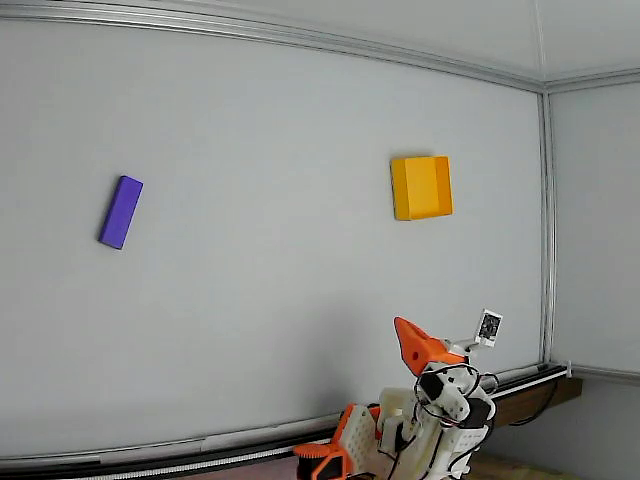
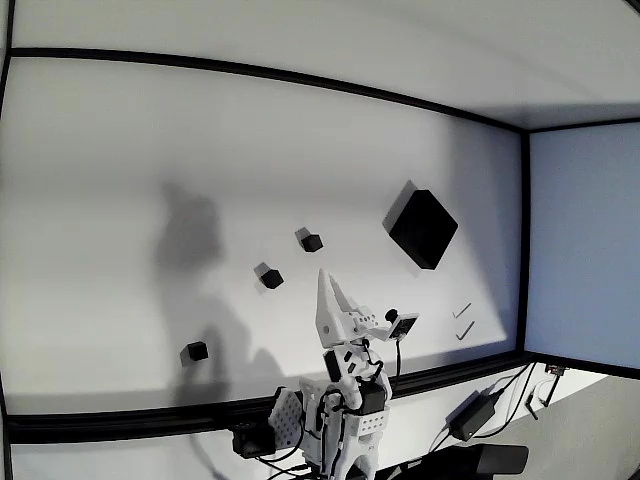
calibrate: give the real crop pan/zoom back, and fix the sim reference
dump_reference_views.py rendered the reset keyframe no matter what --rail or
--gripper asked for. A SAPIEN-mounted camera takes its picture from transforms
cached at the previous capture, so the first get_obs() after a set_qpos returns
the pre-set pose. Confirmed by qpos readback diverging while the PNG hash stayed
identical. update_render() twice does not fix it and px.step() perturbs the pose;
a discarded capture followed by a real one does. Every reference view dumped
before this was the reset pose.

Adds --gripper, defaulting to CLOSED. The wrist camera sees almost nothing but
the jaws, and only closed puts both of them in frame converging in a V, which is
the geometry the real arm capture shows. At the rest keyframe and fully open the
moving jaw leaves the frustum entirely and the view degrades to one featureless
wedge -- those two render identically for that reason. So the existing
arm_camera_mapping.json was fit against a reference with nothing in it.

calibrate_camera.py hardcoded a centred largest-square crop at zoom 1, even
though apply_mapping has always honoured crop_cx/crop_cy/crop_size/zoom at replay
time. The saved format could express an off-centre crop; the fitting UI could
not. Adds those four sliders plus [c] to re-centre against the current rot90, and
--out-size so a refit can record the checkpoint's render size (168 for
dino_patch) instead of the hardcoded 128, which the encoder was upsampling from.
[…]

diff --git a/rl/deploy/utils/calibrate_camera.py b/rl/deploy/utils/calibrate_camera.py
@@ -4,11 +4,11 @@ Drag sliders to rectify a raw photo (rotate -> undistort -> crop) until it match
 render of the same sim camera, then save the mapping the deploy loop replays every tick.
 
     # once, in rl/environments/maniskill (needs the simulator):
-    uv run python examples/dump_reference_views.py
+    uv run python examples/dump_reference_views.py --out ../../deploy/utils/reference_views
 
     # here, per camera (no simulator needed):
-    uv run python utils/calibrate_camera.py captures/real_overhead_camera.png \\
-        --reference reference_views/overhead_camera.png --camera overhead
+    uv run python utils/calibrate_camera.py utils/captures/real_overhead_camera.png \\
+        --reference utils/reference_views/overhead_camera.png --camera overhead
 
 Pure OpenCV + numpy on purpose. The previous version rendered the sim live, which meant the
 deploy tree had to install mani_skill and SAPIEN just to calibrate a camera. The sim side is
@@ -16,9 +16,16 @@ now a PNG, so this runs anywhere -- including on the robot host.
 
 The trade: the sim's FOV is no longer a slider, because the reference render is fixed. If the
 scale cannot be made to match, the sim FOV itself is wrong -- re-dump the reference with
-`--fov` and re-fit. That is rare; the FOVs in config.py are already calibrated.
+`--overhead-fov` / `--wrist-fov` and re-fit. That is rare; the FOVs in config.py are already
+calibrated. The sim CAMERA POSE was never a slider here on purpose: the URDF pose is ground
+truth, and the old pose-offset fit is superseded by the FOV parameterization.
 
-Keys: [s] save, [q] quit.
+The crop is fully adjustable, matching what apply_mapping already replays: pan it with
+crop cx/cy, resize it with crop size, and pull the undistorted view in or out with zoom
+(< 1 shrinks the output focal so a strong barrel lens fits the canvas). Earlier versions
+hardcoded a centred largest-square crop at zoom 1, which the mapping format never required.
+
+Keys: [s] save, [c] re-centre the crop for the current rot90, [q] quit.
 """
 from __future__ import annotations
 
@@ -42,20 +49,32 @@ def squint_tile(img):
     return cv2.resize(small, (VIEW, VIEW), interpolation=cv2.INTER_NEAREST)
 
 
-def build_mapping(camera, raw_shape, rot90, angle, k1, k2, focal, out_size=SIM_SENSOR_SIZE):
-    """The mapping dict, exactly as apply_mapping will replay it at deploy time."""
-    h, w = (raw_shape[1], raw_shape[0]) if rot90 % 2 else (raw_shape[0], raw_shape[1])
-    crop = min(h, w)
+def rotated_dims(raw_shape, rot90):
+    """(h, w) after the rot90 step. The crop fields are expressed in these coordinates."""
+    return (raw_shape[1], raw_shape[0]) if rot90 % 2 else (raw_shape[0], raw_shape[1])
+
+
+def build_mapping(camera, raw_shape, rot90, angle, k1, k2, focal, *,
+                  crop_cx=None, crop_cy=None, crop_size=None, zoom=1.0,
+                  out_size=SIM_SENSOR_SIZE):
+    """The mapping dict, exactly as apply_mapping will replay it at deploy time.
+
+    The crop defaults to the largest centred square, which is what this tool used to hardcode.
+    """
+    h, w = rotated_dims(raw_shape, rot90)
+    crop = min(int(crop_size) if crop_size else min(h, w), h, w)
     return dict(
         camera=camera,
         source_image_size=[int(raw_shape[1]), int(raw_shape[0])],
         # Angular span of the crop at this focal length. Recorded for reference: it is the real
         # camera's span, and it can legitimately differ from the sim FOV, since the fit is what
-        # reconciles the two.
-        fov_deg=round(float(np.rad2deg(2 * np.arctan(crop / (2 * focal)))), 2),
+        # reconciles the two. Tracks zoom, which scales the undistorted output focal.
+        fov_deg=round(float(np.rad2deg(2 * np.arctan(crop / (2 * focal * zoom)))), 2),
         rot90=int(rot90), angle_deg=float(angle), k1=float(k1), k2=float(k2),
-        focal_px=int(focal), zoom=1.0,
-        crop_cx=int(w // 2), crop_cy=int(h // 2), crop_size=int(crop),
+        focal_px=int(focal), zoom=round(float(zoom), 3),
+        crop_cx=int(crop_cx if crop_cx is not None else w // 2),
+        crop_cy=int(crop_cy if crop_cy is not None else h // 2),
+        crop_size=int(crop),
         out_size=int(out_size),
     )
 
@@ -70,6 +89,11 @@ def main():
     parser.add_argument("--camera", choices=["overhead", "arm"], default="overhead",
                         help="which mapping to write: <camera>_camera_mapping.json")
     parser.add_argument("--out-dir", default=str(pathlib.Path(__file__).parent / "camera_mappings"))
+    parser.add_argument("--out-size", type=int, default=None,
+                        help=f"rectified output resolution (default: the existing mapping's, "
+                             f"else {SIM_SENSOR_SIZE}). Match the checkpoint's render size: "
+                             f"{SIM_SENSOR_SIZE} for squint, 168 for dino_patch. Too small and "
+                             "the encoder upsamples a blurrier view than it trained on.")
     args = parser.parse_args()
 
     raw = cv2.imread(args.image)
@@ -87,6 +111,13 @@ def main():
     if seed:
         print(f"[calibrate] starting from {existing}")
 
+    out_size = args.out_size or int(seed.get("out_size", SIM_SENSOR_SIZE))
+
+    # Crop sliders span the largest raw dimension, since rot90 can swap h and w while running;
+    # build_mapping and apply_mapping both clamp the crop back inside the frame.
+    max_dim = int(max(raw.shape[0], raw.shape[1]))
+    seed_h, seed_w = rotated_dims(raw.shape, int(seed.get("rot90", 1)))
+
     cv2.namedWindow(WINDOW)
     tb = cv2.createTrackbar
     tb("rot90", WINDOW, int(seed.get("rot90", 1)), 3, lambda v: None)
@@ -94,10 +125,16 @@ def main():
     tb("k1 x1000 +-600", WINDOW, int(seed.get("k1", -0.33) * 1000) + 600, 1200, lambda v: None)
     tb("k2 x1000 +-300", WINDOW, int(seed.get("k2", 0.275) * 1000) + 300, 600, lambda v: None)
     tb("focal px", WINDOW, int(seed.get("focal_px", 512)), 1200, lambda v: None)
+    tb("zoom x100", WINDOW, int(round(float(seed.get("zoom", 1.0)) * 100)), 200, lambda v: None)
+    tb("crop cx", WINDOW, int(seed.get("crop_cx", seed_w // 2)), max_dim, lambda v: None)
+    tb("crop cy", WINDOW, int(seed.get("crop_cy", seed_h // 2)), max_dim, lambda v: None)
+    tb("crop size", WINDOW, int(seed.get("crop_size", min(seed_h, seed_w))), max_dim,
+       lambda v: None)
     tb("blend %", WINDOW, 50, 100, lambda v: None)
 
     print("[calibrate] straighten the rig's edges with k1/k2 and angle first, then match scale "
-          "with focal; read the blend last. [s] save, [q] quit")
+          "with focal and zoom, then frame it with crop cx/cy/size; read the blend last. "
+          f"writing {out_size}px output. [s] save, [c] re-centre crop, [q] quit")
 
     while True:
         g = lambda n: cv2.getTrackbarPos(n, WINDOW)  # noqa: E731
@@ -105,8 +142,12 @@ def main():
         k1 = (g("k1 x1000 +-600") - 600) / 1000.0
         k2 = (g("k2 x1000 +-300") - 300) / 1000.0
         focal = max(g("focal px"), 100)
+        zoom = max(g("zoom x100"), 20) / 100.0
+        crop_size = max(g("crop size"), 32)
 
-        mapping = build_mapping(args.camera, raw.shape, rot90, angle, k1, k2, focal)
+        mapping = build_mapping(args.camera, raw.shape, rot90, angle, k1, k2, focal,
+                                crop_cx=g("crop cx"), crop_cy=g("crop cy"),
+                                crop_size=crop_size, zoom=zoom, out_size=out_size)
         # Rectify through the SAME function deploy uses, so what you align is what ships.
         rect = apply_mapping(raw, mapping)
         rect_view = cv2.resize(rect, (VIEW, VIEW), interpolation=cv2.INTER_NEAREST)
@@ -120,11 +161,13 @@ def main():
             f"rot90    {rot90}   angle {angle:+d} deg",
             f"k1       {k1:+.3f}",
             f"k2       {k2:+.3f}",
-            f"focal    {focal} px",
-            f"crop     {mapping['crop_size']} px",
+            f"focal    {focal} px   zoom {zoom:.2f}",
+            f"crop     {mapping['crop_size']} px @ "
+            f"({mapping['crop_cx']},{mapping['crop_cy']})",
+            f"out      {mapping['out_size']} px",
             f"spans    {mapping['fov_deg']:.1f} deg",
             "",
-            "[s] save   [q] quit",
+            "[s] save  [c] centre  [q] quit",
         ]):
             cv2.putText(info, line, (8, 24 + 22 * i), cv2.FONT_HERSHEY_SIMPLEX, 0.45,
                         (0, 255, 255), 1)
@@ -136,6 +179,13 @@ def main():
         key = cv2.waitKey(30) & 0xFF
         if key in (ord("q"), 27):
             break
+        if key == ord("c"):
+            # rot90 may have swapped h and w since the sliders were seeded.
+            h, w = rotated_dims(raw.shape, rot90)
+            cv2.setTrackbarPos("crop cx", WINDOW, w // 2)
+            cv2.setTrackbarPos("crop cy", WINDOW, h // 2)
+            cv2.setTrackbarPos("crop size", WINDOW, min(h, w))
+            cv2.setTrackbarPos("zoom x100", WINDOW, 100)
         if key == ord("s"):
             out_dir = pathlib.Path(args.out_dir)
             out_dir.mkdir(parents=True, exist_ok=True)

diff --git a/rl/environments/maniskill/examples/dump_reference_views.py b/rl/environments/maniskill/examples/dump_reference_views.py
@@ -5,7 +5,7 @@ then fit the real cameras against the PNGs with rl/deploy/utils/calibrate_camera
 OpenCV, so it also runs on the robot host).
 
     uv run python examples/dump_reference_views.py
-    uv run python examples/dump_reference_views.py --out ../../rl/deploy/utils/reference_views
+    uv run python examples/dump_reference_views.py --out ../../deploy/utils/reference_views
 
 Domain randomization is OFF and the objects are hidden by default: what you are aligning is the
 rig's fixed geometry -- frame edges, panel corners, the arm base -- not a particular episode.
@@ -38,6 +38,11 @@ parser.add_argument("--size", type=int, default=config.SENSOR_RESOLUTION,
 parser.add_argument("--rail", type=float, default=0.5,
                     help="rail position as a fraction of travel, 0..1. The overhead camera is "
                          "static so this only moves the arm and its wrist camera.")
+parser.add_argument("--gripper", type=float, default=0.0,
+                    help="gripper opening as a fraction of travel, 0..1 (default 0 = closed). "
+                         "The jaws are the wrist camera's fixed foreground, so this is a "
+                         "landmark to align against; capture the real frame the same way. The "
+                         "rest keyframe holds the gripper open, which leaves them out of view.")
 parser.add_argument("--show-objects", action="store_true",
                     help="leave the cube and bin in frame instead of parking them out of view")
 parser.add_argument("--overhead-fov", type=float, default=None,
@@ -64,11 +69,18 @@ env = gym.make(
 env.reset(seed=0)
 u = env.unwrapped
 
-# Put the rail where asked; the arm (and wrist camera) move with it.
+# Put the rail where asked; the arm (and wrist camera) move with it. The gripper too: the
+# jaws are the only rig geometry the wrist camera sees up close, so they carry the alignment.
+def place(qpos, name, fraction):
+    """Set one joint to a fraction of its travel, 0..1."""
+    idx = u.agent.joint_names.index(name)
+    lo, hi = u.agent.robot.get_qlimits()[0, idx].cpu().numpy()
+    qpos[0, idx] = float(lo + float(np.clip(fraction, 0.0, 1.0)) * (hi - lo))
+
+
 qpos = u.agent.robot.get_qpos().clone()
-rail_idx = u.agent.joint_names.index("dof_slider")
-lo, hi = u.agent.robot.get_qlimits()[0, rail_idx].cpu().numpy()
-qpos[0, rail_idx] = float(lo + float(np.clip(args.rail, 0.0, 1.0)) * (hi - lo))
+place(qpos, "dof_slider", args.rail)
+place(qpos, "gripper", args.gripper)
 u.agent.robot.set_qpos(qpos)
 
 if not args.show_objects:
@@ -76,8 +88,15 @@ if not args.show_objects:
     u.item.set_pose(Pose.create_from_pq(torch.tensor([[5.0, 5.0, 0.5]])))
     u.bin.set_pose(Pose.create_from_pq(torch.tensor([[6.0, 6.0, 0.5]])))
 
-# No camera-pose sync needed: both sensor cameras are SAPIEN-mounted on their URDF camera
-# links, so moving the rail above already moved the wrist camera with it.
+# Both sensor cameras are SAPIEN-mounted on their URDF camera links, so the set_qpos above
+# already moved the wrist camera with the arm. But a mounted camera takes its picture from the
+# transforms cached at the PREVIOUS capture, so the first get_obs() after a set_qpos returns
+# the pre-set pose. Capture once to flush, then render and capture again for the frame that
+# actually reflects the qpos. Without this every reference silently rendered the reset
+# keyframe and both --rail and --gripper were no-ops. update_render() twice does not do it;
+# the discarded capture is what flushes the mount.
+u.scene.update_render()
+u.get_obs()
 u.scene.update_render()
 obs = u.get_obs()
 
